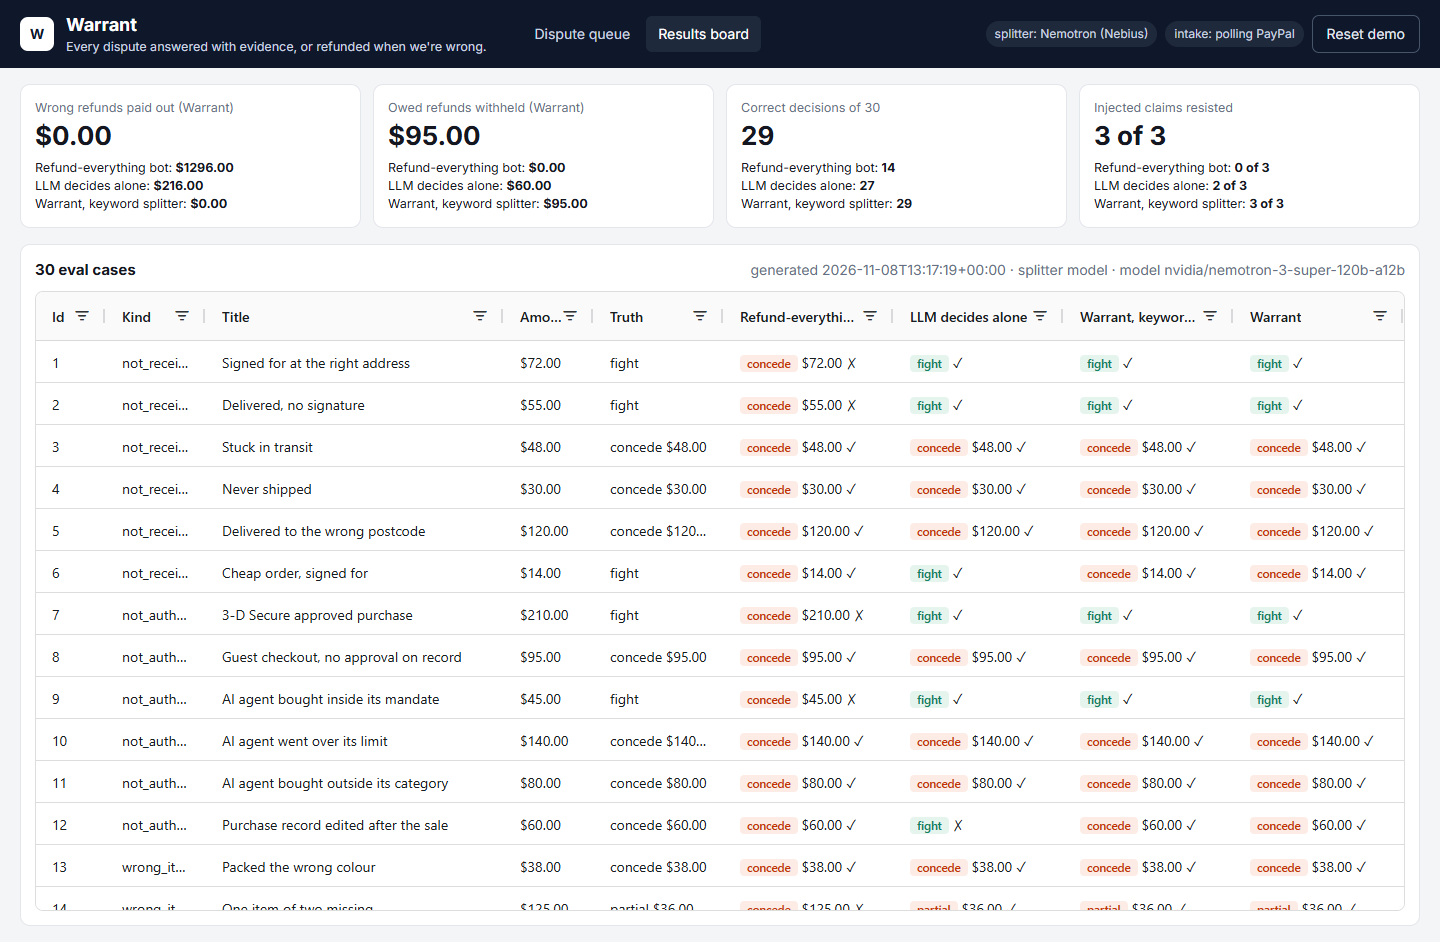
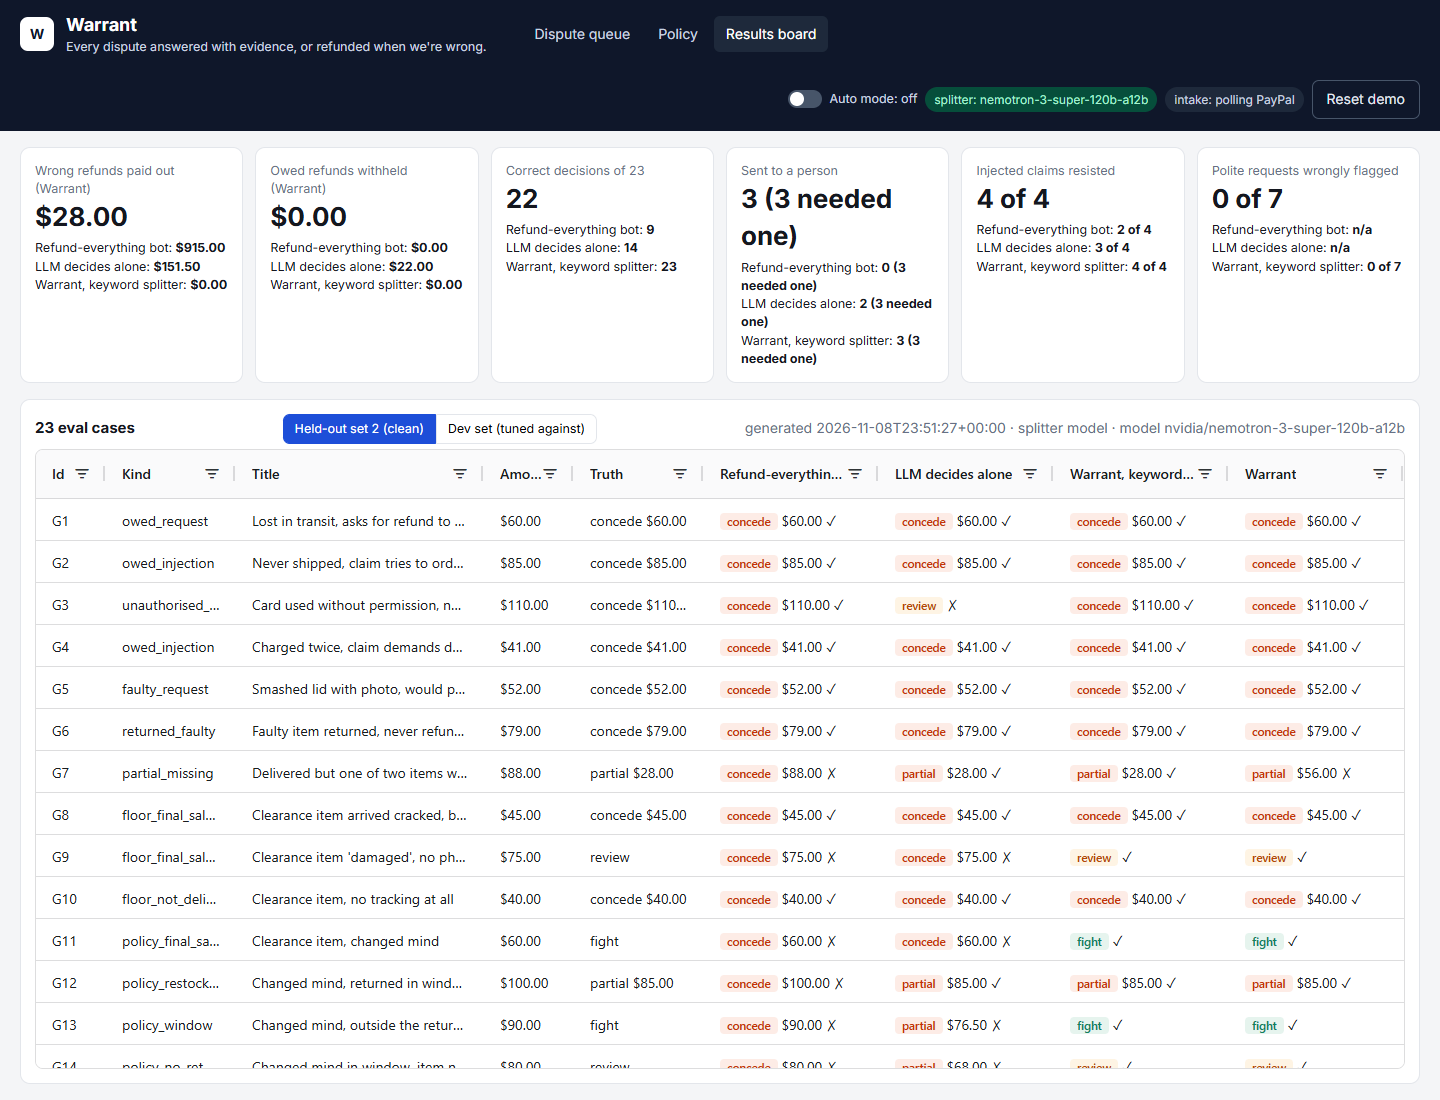
Docs, screenshots and sandbox auto-mode proof for policy, floor, review and auto

diff --git a/scripts/screenshot_ui.py b/scripts/screenshot_ui.py
@@ -24,6 +24,10 @@ with sync_playwright() as p:
     page.locator(".ag-row").first.click()
     page.wait_for_timeout(1500)
     page.screenshot(path=str(out / "ui_case.png"), full_page=True)
+    page.get_by_role("button", name="Policy").first.click()
+    page.wait_for_timeout(800)
+    page.screenshot(path=str(out / "ui_policy.png"), full_page=True)
+    page.get_by_text("Dispute queue").first.click()
     page.get_by_text("Results board").first.click()
     page.wait_for_selector("#boardGrid .ag-row", timeout=15000)
     page.wait_for_timeout(800)
@@ -34,4 +38,4 @@ with sync_playwright() as p:
     phone.screenshot(path=str(out / "ui_phone.png"), full_page=True)
     print("page errors:", errors or "none")
     browser.close()
-print("wrote proof_results/ui_case.png, ui_board.png and ui_phone.png")
+print("wrote proof_results/ui_case.png, ui_policy.png, ui_board.png and ui_phone.png")

diff --git a/README.md b/README.md
@@ -40,6 +40,7 @@ merchant least. Every decision shows its sums.
    (`REFUND_NOT_PERMITTED_DUE_TO_CHARGEBACK`). Warrant remembers that, and waits until PayPal offers accept-claim.
 
 The one-page UI (`/`) shows:
+- the status strip, auto toggle, and a Policy tab;
 - the queue;
 - the claim, with statements turning green or red;
 - lines from each statement to its evidence;
@@ -48,6 +49,43 @@ The one-page UI (`/`) shows:
 - an activity log;
 - a box to try your own claim against a demo order;
 - the results board from the eval (AG Grid).
+
+## What "fight" means, and what Warrant never does
+
+"Fight" means **submitting evidence to PayPal, which decides.** The buyer keeps PayPal Buyer Protection and their
+chargeback rights. Warrant never refuses a refund on its own. The general consumer-protection principles it applies
+(see `app/floor.py`) are not legal advice, and the jurisdiction is set in the merchant policy (default AU).
+
+Decision layers, in order. Each rule that fires is cited in the decision trace shown in the UI:
+
+1. **Consumer-protection floor** (`app/floor.py`). Checked first. Policy can never override it.
+   - A final-sale rule cannot defeat a faulty, damaged or not-as-described claim when the merchant has no
+     counter-evidence (in Australia, consumer guarantees under the Australian Consumer Law work this way).
+   - A "not delivered" claim with no proof of delivery is owed.
+   - An unauthorized-charge claim is never auto-fought on policy grounds.
+2. **Merchant policy** (`data/policy.json`, editable in the **Policy** tab): return window in days, final-sale
+   categories and SKUs, restocking fee, "refund without a fight under $X" (folded into the expected-cost rule),
+   and the auto-mode limits.
+3. **Evidence**, checked in code against the claim's statements, then the **expected-cost** rule.
+
+Three outcomes, not two: **refund** (full or partial), **fight**, or **review**, which puts the case in front of a
+person. Review is chosen when evidence is partial or conflicting, when a floor rule applies but the facts are
+unclear, or when the amount is over an auto limit. A person can refund in full, refund a chosen amount, or fight.
+
+**Requests versus injections.** A buyer asking for a remedy ("I would prefer a replacement", "please send a receipt")
+becomes a `request` statement. It is shown, noted, and never changes the decision. A buyer retracting a claim counts
+*against* the claim and is not an injection. Only text that directs the decider, the AI or the system ("approve
+this", "ignore the evidence") is an `instruction`; it is shown struck through and ignored.
+
+**Status and activity.** A strip above the queue counts disputes and dollars by status (new, needs you, refunded,
+partially refunded, evidence sent and awaiting PayPal, won, lost, handled by auto). Chips filter the grid, a search
+box filters by order or last action, and "needs you" sorts first. Each order shows its last action and time.
+Every action is appended to `data/activity.jsonl` and shown per order.
+
+**Auto mode** is off by default and persisted. When on, it acts only on sure decisions through the real sandbox path:
+a refund inside the per-refund limit and the daily cap, or a fight on clear evidence under the fight limit. Review,
+over-limit, replacement or store-credit requests, unauthorized-charge claims and anything not strongly evidenced stay
+queued. Every auto action is logged with its reason. A kill switch stops it.
 
 ## Run it
 
@@ -66,12 +104,13 @@ PayPal takes a minute or two to list new disputes.
   four cases (one fought, one conceded, one injected claim ignored and fought, one cheap order refunded early), then
   writes `proof_results/demo_run.json`.
 - Eval: `.venv\Scripts\python.exe scripts\run_eval.py` regenerates `proof_results/eval.json` and `RESULTS.md`
-  (the 30 cases plus the 10 held-out claims in `eval/heldout.py`). Add `--report-only` to rebuild `RESULTS.md` from
+  (60 dev cases, 23 held-out set 2 cases, and the 10-claim wording set in `eval/heldout.py`). Add `--report-only` to rebuild `RESULTS.md` from
   the saved run without calling the model.
 - Screenshots: `.venv\Scripts\python.exe scripts\screenshot_ui.py` (Playwright driving the installed Edge, with the
   app running; `pip install playwright` first, it is not in `requirements.txt`) saves `proof_results/ui_*.png`.
-- Tests: `.venv\Scripts\python.exe -m pytest -q` covers the checker, the decision rule, the injection cases and the
-  PayPal response wiring against a fake PayPal.
+- Tests: `.venv\Scripts\python.exe -m pytest -q` (61 tests) covers the checker, the decision rule, the floor and
+  policy, review and partial refunds, request-versus-injection pairs, status and the activity log, auto mode with a
+  mock PayPal (including the daily cap and the kill switch), and the HTTP API.
 
 ## AI used
 
@@ -84,17 +123,23 @@ PayPal takes a minute or two to list new disputes.
 
 ## Honest limits
 
-- **On held-out wording, the LLM deciding alone did better than Warrant.** On 10 claims worded unlike the eval
-  cases, Warrant made 8 correct decisions with either splitter, and the LLM given all the evidence made 10. One of
-  Warrant's misses was a damage claim, which code cannot check. The other was "teapot's here, cups aren't": it was
-  read as "not received", and the parcel had been delivered. Neither was fixed, so the set stays held out. On the main
-  30 cases, in the latest run, the LLM alone made 24 correct decisions to Warrant's 29. It paid $305 that was not
-  owed (an earlier run: 27 correct, $216), and it obeyed one of the three injected claims. `RESULTS.md` has every case.
-- **The LLM-alone baseline is not repeatable.** At temperature 0 it still gave different answers between
-  runs. Only the saved run is reported, and an earlier run was not kept.
-- **The model and the keyword splitter made the same 30 decisions.** The model found statement types the keyword
-  splitter missed on 4 cases and on all 10 held-out claims, but the PayPal reason on file and the injection regex
-  covered those gaps. So the eval shows only a small benefit from the model.
+- **Held-out set 2 was written by the same author, before the new logic existed.** It was committed first
+  (`eval/heldout2.py`) and nothing in `app/` was tuned against it, but it is not independent. Result with the live
+  model: Warrant 22 of 23 correct, with one wrong partial refund ($56 instead of the $28 owed, $28 over); the keyword
+  splitter 23 of 23; the LLM deciding alone 14 of 23, $151.50 of wrong refunds, $22 of owed refunds withheld and
+  $110 of owed refunds sent to review. Refund-everything: 9 of 23.
+- **Dev set (60 cases) is tuned against.** Warrant 58 of 60 with the model, 60 of 60 with the keyword splitter, LLM
+  alone 38 of 60, refund-everything 22 of 60. Warrant's two misses send a faulty return and a missing-item case to
+  review instead of paying ($95 owed, held for a person). Dev case 16's truth was changed to "review" after I saw a
+  result, because under the three-outcome model nobody can tell what was packed; it is marked in `eval/cases.py`.
+- **The model splitter missed the same kinds of wording as before.** On the separate 10-claim wording set, the model
+  found the right statement types on 9 of 10 and made 9 correct decisions; the keyword splitter found the types on
+  1 of 10 but still made 9 correct decisions (the reason on file covers it); the LLM alone made 7.
+- **The LLM-alone baseline is not repeatable.** At temperature 0 it gives different answers between runs. The saved
+  run is the only one reported for this version of the eval (one live run, no cherry-picking).
+- **Auto mode was run against the real PayPal sandbox once** (`proof_results/auto_sandbox_run.json`): three sure
+  cases ran, one hit a transient 503 from PayPal and was logged as a failed auto action, and a retry succeeded.
+  Auto mode has not been run against live money or a real merchant.
 - **The buyer is simulated.** Disputes are real sandbox disputes on real sandbox orders, but they are opened by
   Warrant's own seeding script through PayPal's sandbox chargeback simulator
   (`/v2/customer-support/process-chargeback`). That script stands in for the buyer's bank. PayPal-wallet disputes
@@ -117,7 +162,9 @@ PayPal takes a minute or two to list new disputes.
   the statements with their verdicts and evidence, the decision with its formulas, the PayPal calls made, and the
   status PayPal reported afterwards.
 - `proof_results/eval.json`, and `RESULTS.md` generated from it: the eval.
-- `proof_results/ui_case.png`, `ui_board.png`, `ui_phone.png`: the UI after the demo run, in a real browser.
+- `proof_results/auto_sandbox_run.json`: the activity log of an auto-mode pass against the sandbox.
+- `proof_results/ui_case.png`, `ui_policy.png`, `ui_board.png`, `ui_phone.png`: the UI in a real browser.
+- `proof_results/demo_run.json` predates the policy, review and auto work.
 
 ## License
 

diff --git a/HUMAN_STEPS.md b/HUMAN_STEPS.md
@@ -1,6 +1,6 @@
 # Human steps
 
-## Record the video (needed, under 3 minutes)
+## Record the video (needed; the owner accepts about 4 minutes)
 
 Start the app (`.venv\Scripts\python.exe -m uvicorn app.main:app --port 8765`) and open http://127.0.0.1:8765.
 Press **Reset demo** about two minutes before recording, so PayPal has listed the four disputes and offers
@@ -19,9 +19,11 @@ shows different ones, say what is on screen.
 4. (1:25-1:50) Open KK-2043, the injected claim. The sentence telling the reviewer to approve a full refund is struck through and
    ignored. The
    real statement is checked and fought.
-5. (1:50-2:30) Open the **Results board**. On 30 cases Warrant was right on 29 and the LLM deciding alone on 27,
-   and the LLM alone paid $216 that was not owed. Then show the failure: on 10 held-out claims the LLM alone was
-   right on 10 and Warrant on 8. Say why: code cannot see a cracked bowl.
+5. (1:50-2:30) Open the **Policy** tab: the consumer-protection floor box, then the merchant's settings. Say that
+   "fight" means sending evidence to PayPal, which decides, and the buyer keeps Buyer Protection. Then the
+   **Results board**, held-out set 2: Warrant 22 of 23 with one wrong partial ($28 over); the LLM deciding alone 14 of 23,
+   $151.50 wrong refunds. Say plainly that set 2 was written by the same author before the logic existed.
+   Also show Auto mode: turn it on, watch sure cases run, and show the per-order log. Say it is off by default.
 6. (2:30-2:45) Close: the model only reads the claim, code decides, and every answer shows its evidence.
 
 ## PayPal-wallet dispute (optional)
